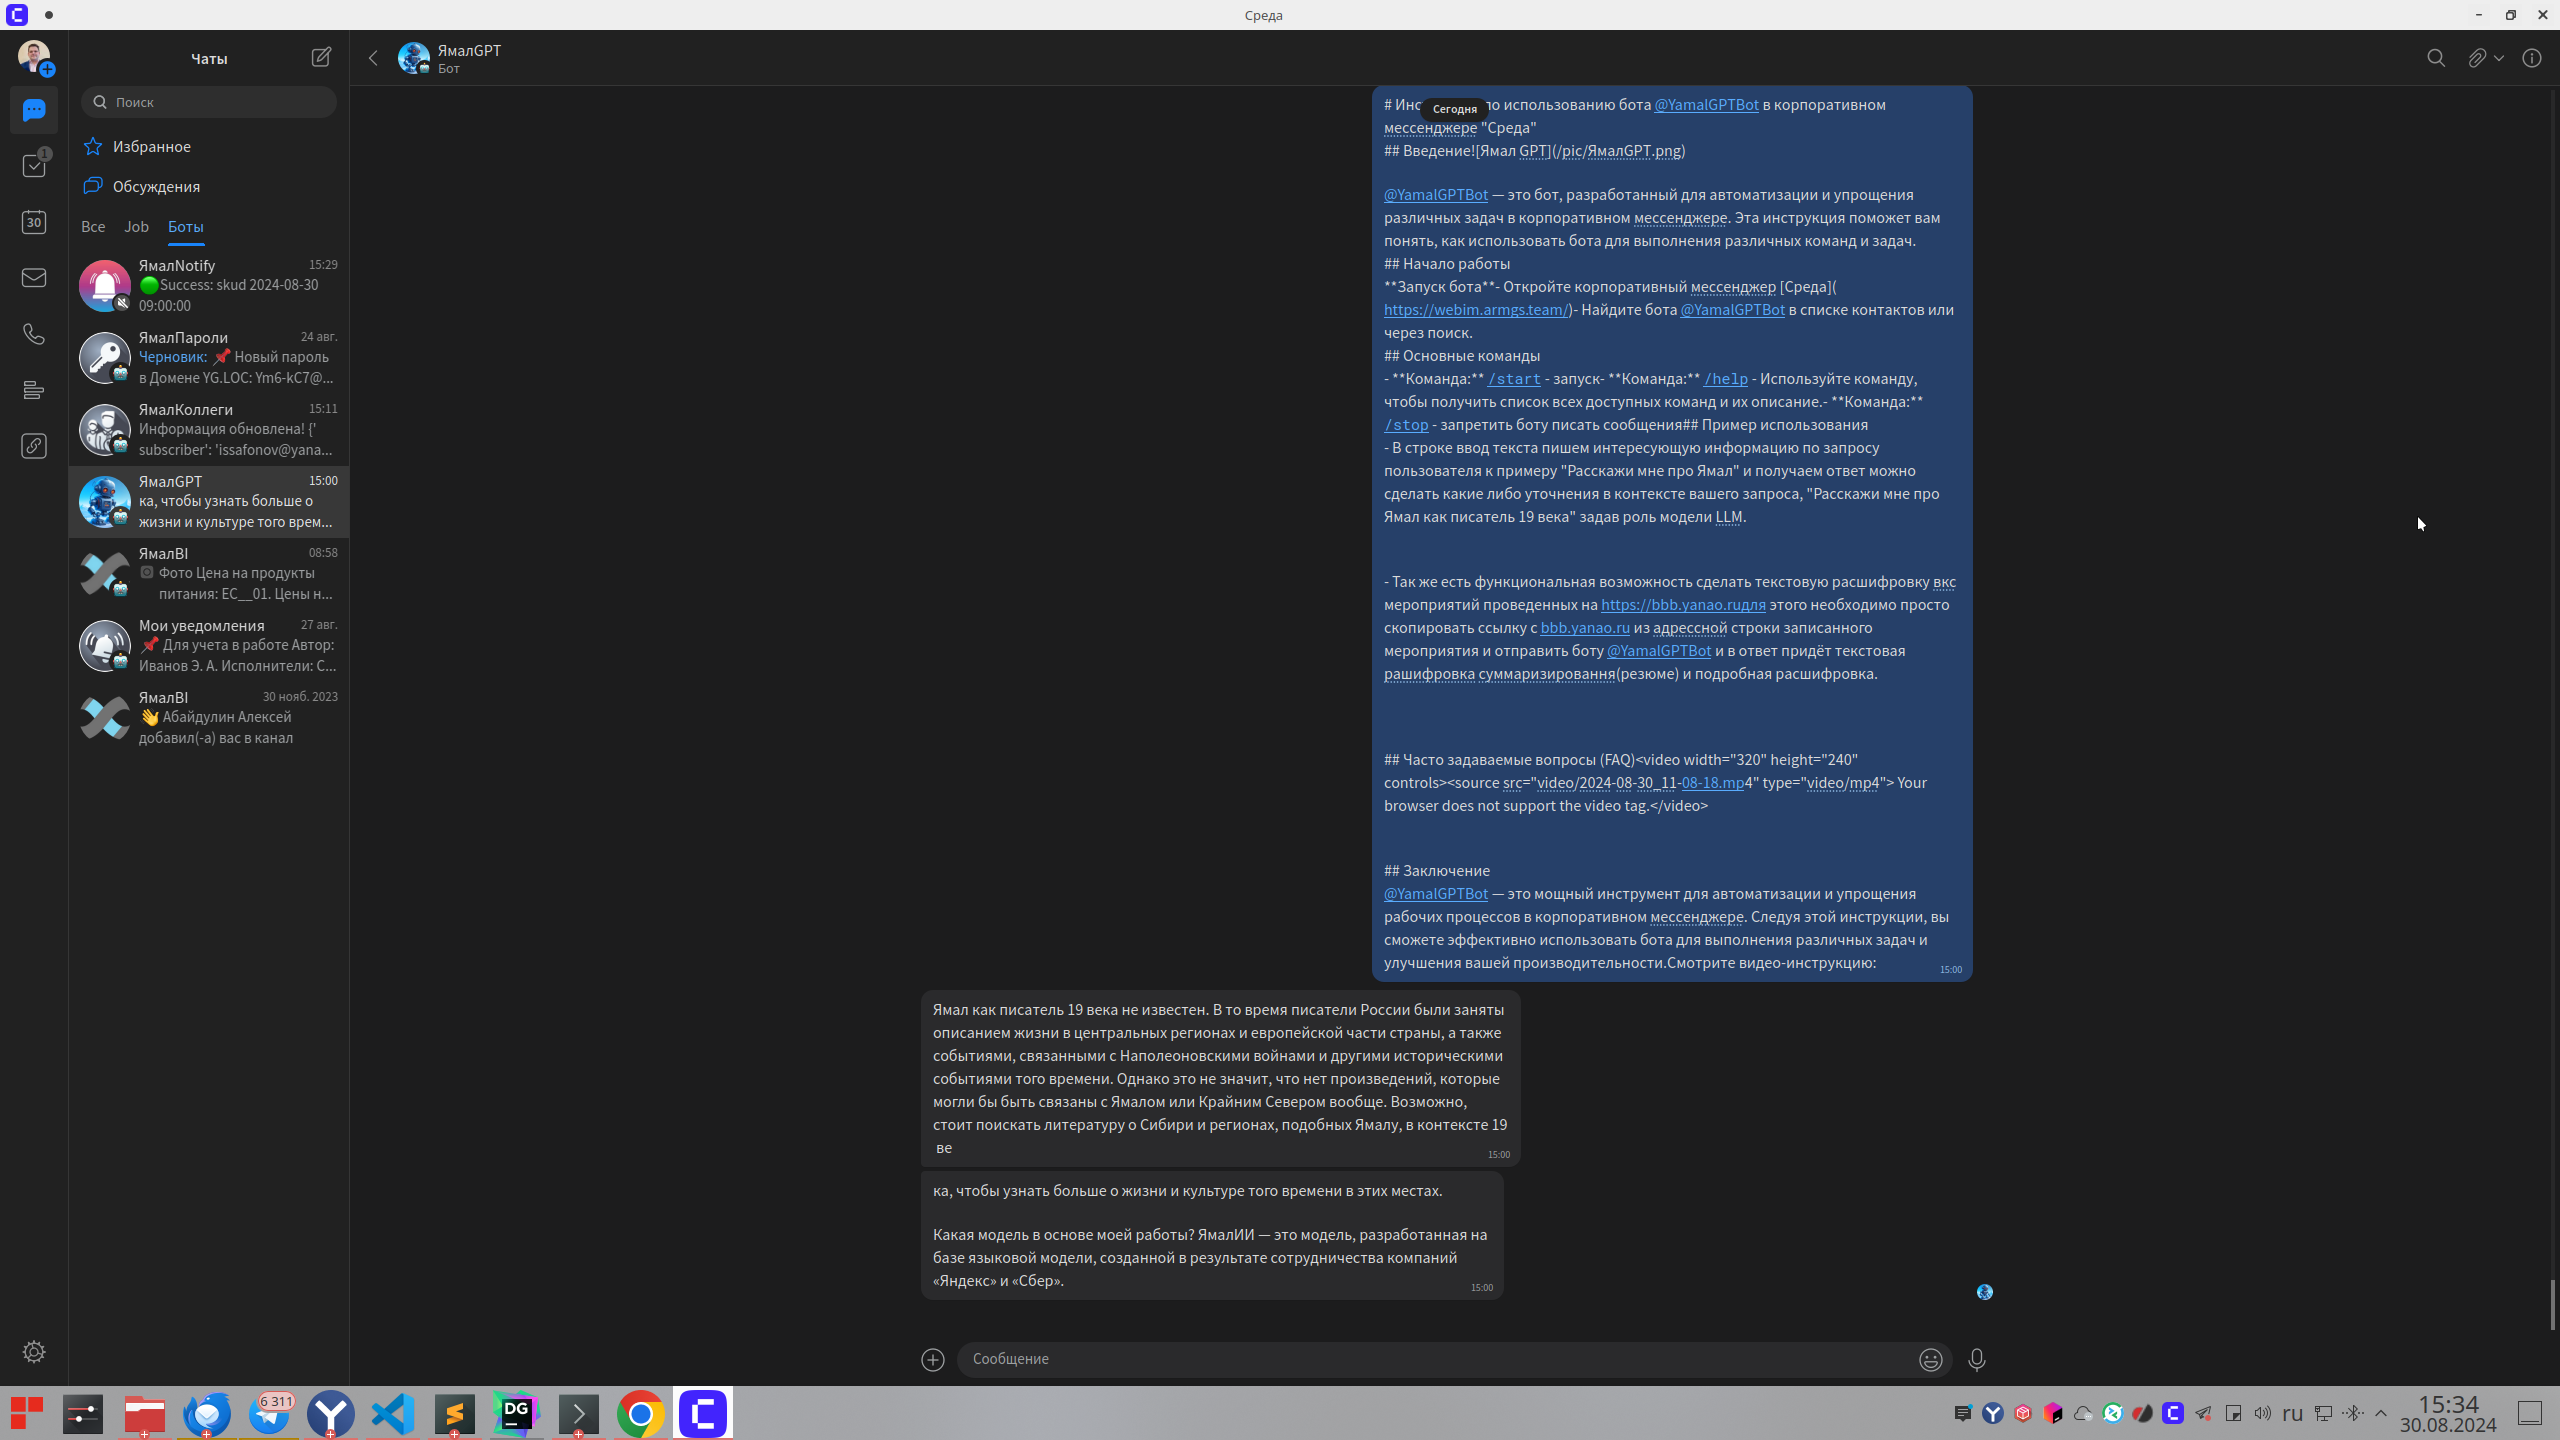
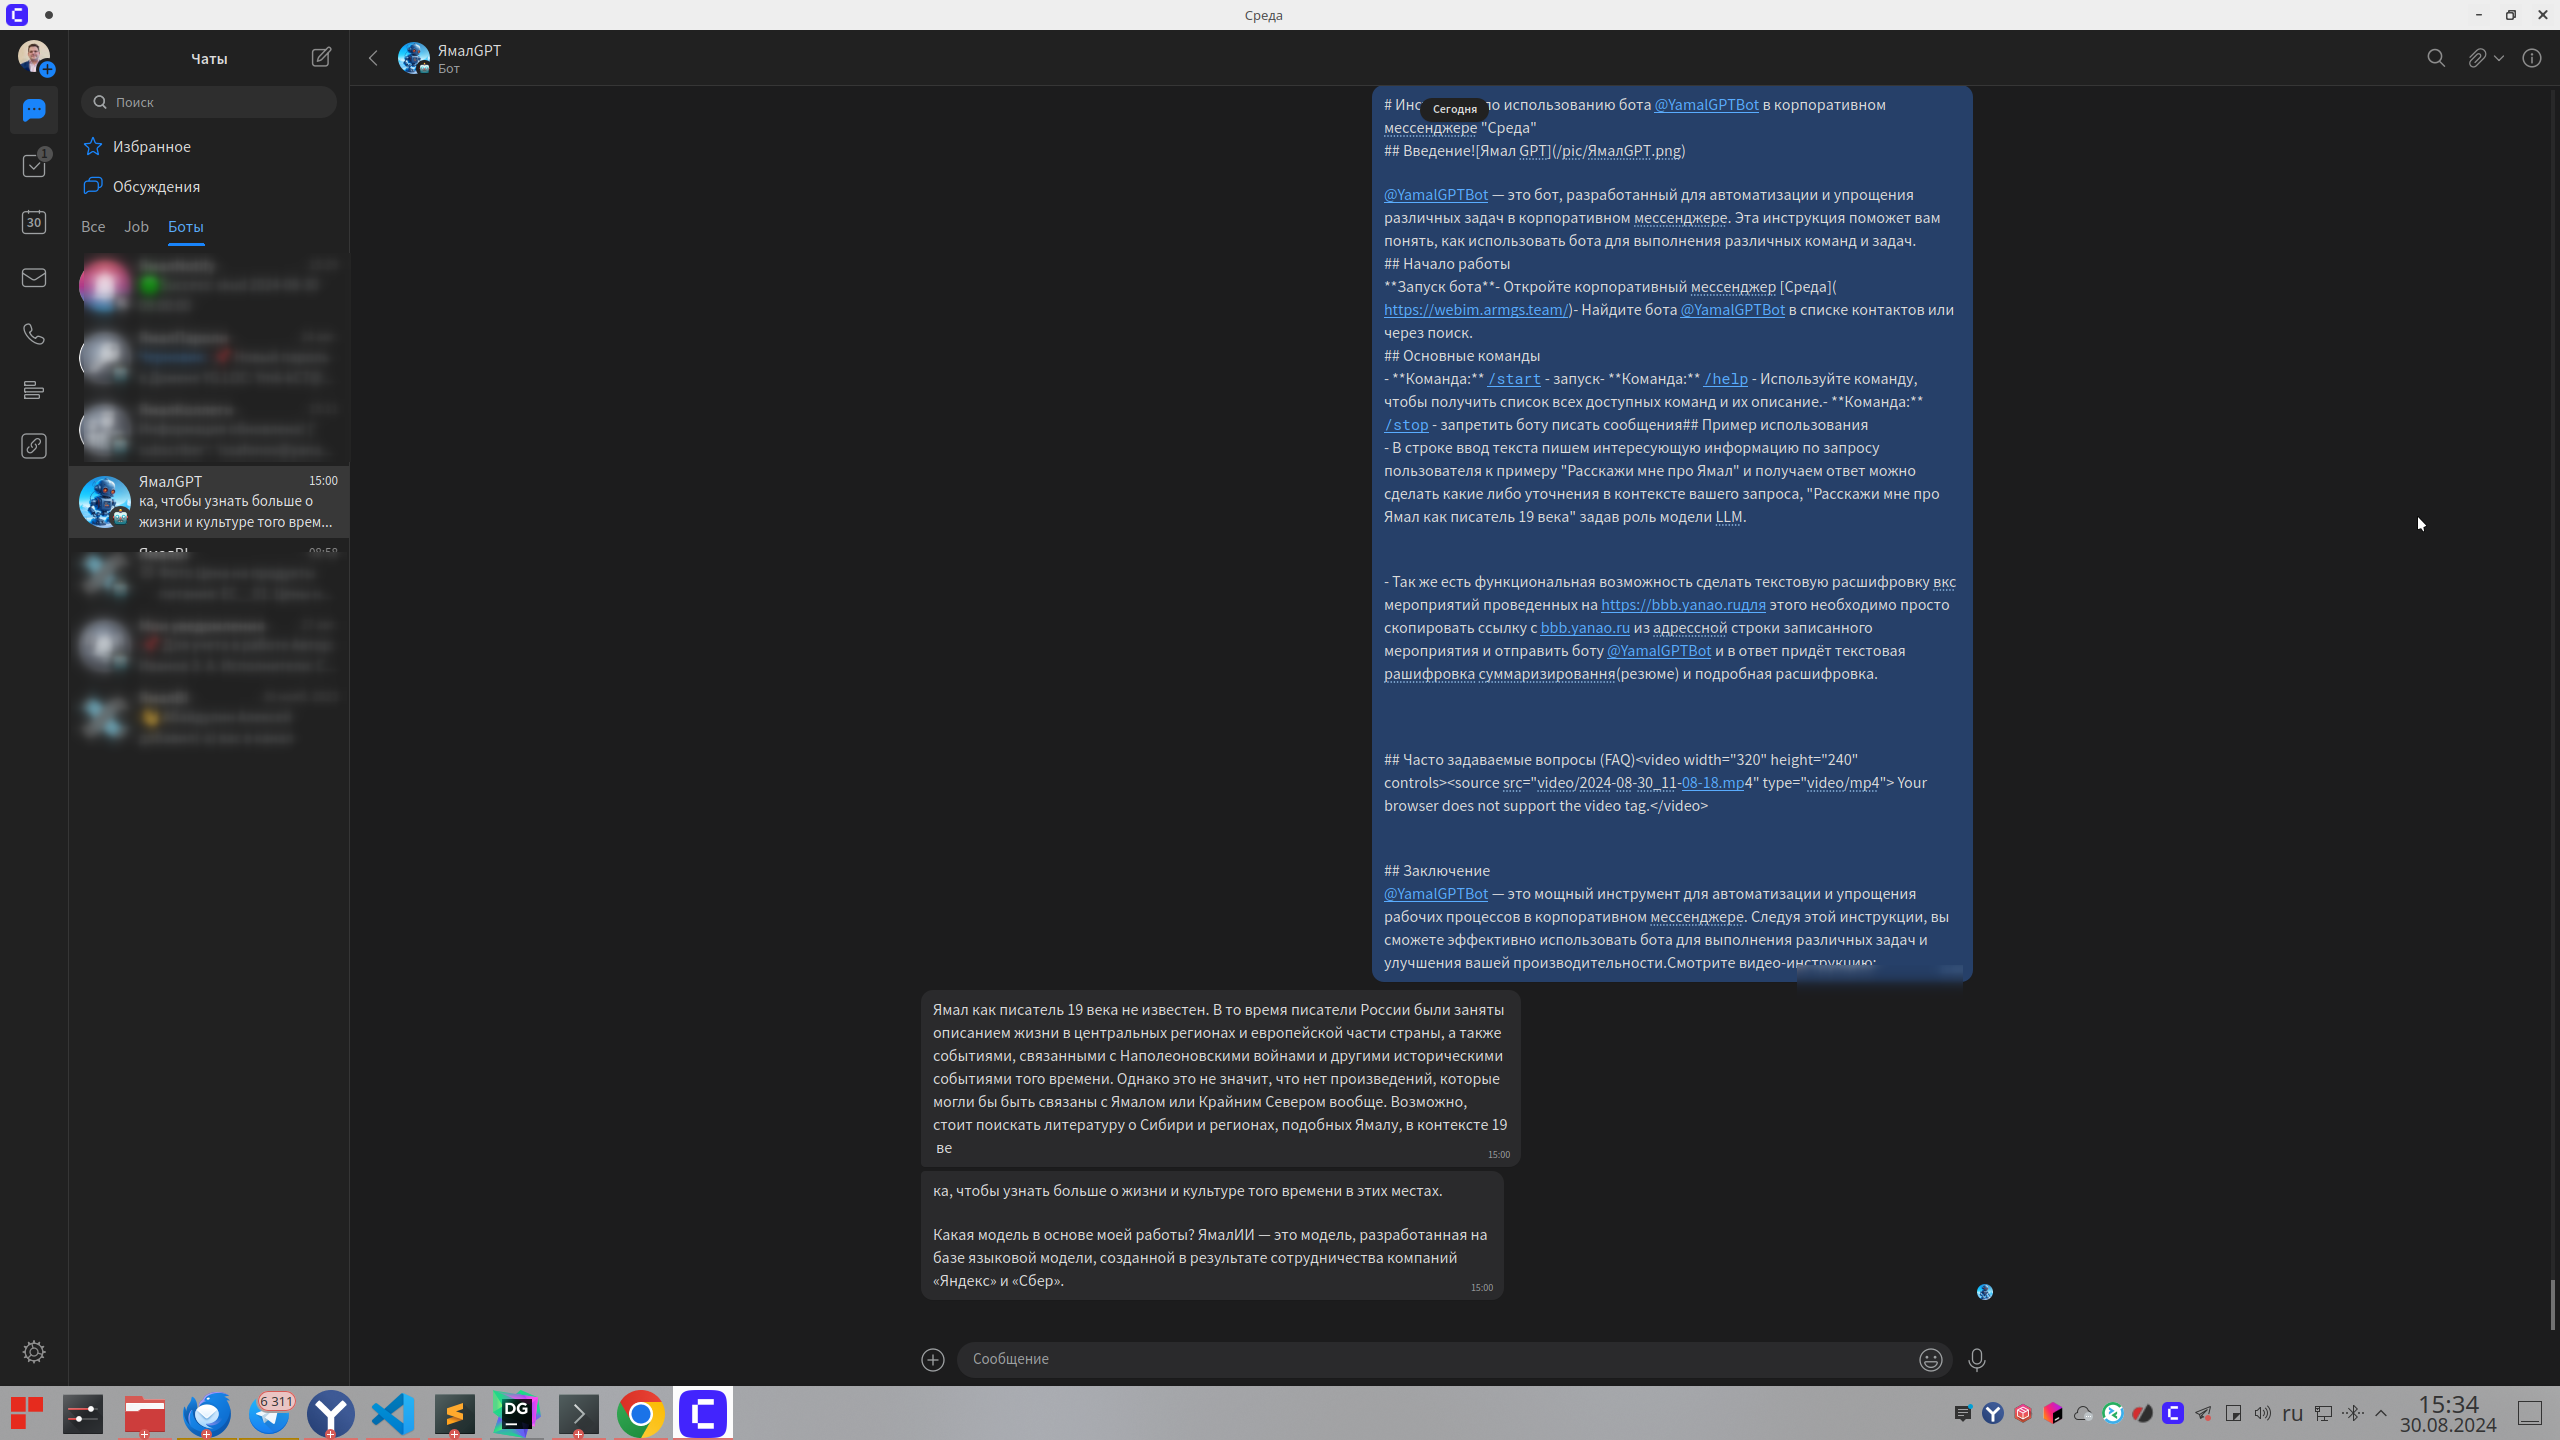
pic blur

Changed region(s): [[0.0312, 0.375, 0.125, 0.5312], [0.0312, 0.1562, 0.125, 0.3125], [0.7188, 0.6562, 0.75, 0.6875]]

diff --git a/README.md b/README.md
@@ -22,14 +22,14 @@
 
 - В строке ввод текста пишем интересующую информацию по запросу пользователя к примеру "Расскажи мне про Ямал" и получаем ответ можно сделать какие либо уточнения в контексте вашего запроса, "Расскажи мне про Ямал как писатель 19 века" задав роль модели LLM.
 
-![image](/pic/Screenshot_20240830_153423.png)
+![image](/pic/Screenshot_20240830_153423_1.png)
 
 
 - Так же есть функциональная возможность сделать текстовую расшифровку вкс мероприятий проведенных на https://bbb.yanao.ru
 для этого необходимо просто скопировать ссылку с bbb.yanao.ru из адрессной строки записанного мероприятия и отправить боту @YamalGPTBot и в ответ придёт текстовая рашифровка суммаризировання(резюме) и подробная расшифровка.
 
 
-![image](/pic/Screenshot_20240830_154757.png)
+![image](/pic/Screenshot_20240830_154757_1.png)
 
 
 
